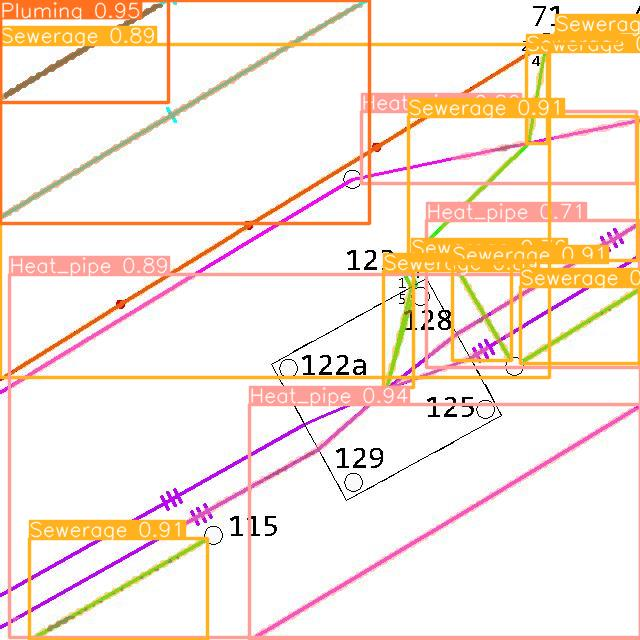
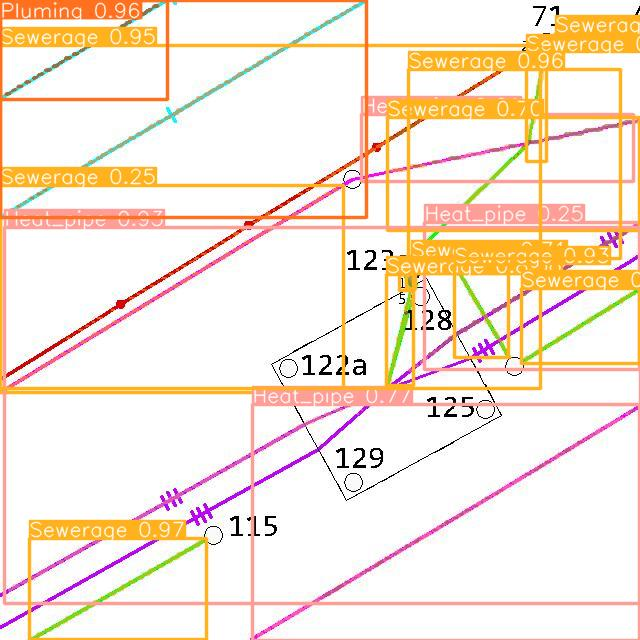
Тестирование нового датасета

diff --git a/04_segment/01_Ultralytics/segment.py b/04_segment/01_Ultralytics/segment.py
@@ -3,7 +3,7 @@ from ultralytics import YOLO
 from PIL import Image
 
 # Load a model
-model = YOLO('C:\\Repos\\Ayrapetov\\07_AI_project\\04_segment\\01_Ultralytics\\runs\\segment\\train24\\weights\\best.pt')  # load a pretrained model
+model = YOLO('C:\\Repos\\Ayrapetov\\07_AI_project\\04_segment\\01_Ultralytics\\runs\\segment\\train23\\weights\\best.pt')  # load a pretrained model
 
 # Путь к папке с изображениями
 pth_raw = 'C:\\Repos\\Ayrapetov\\07_AI_project\\02_mark\\images'
